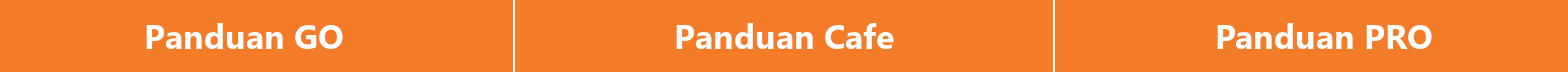
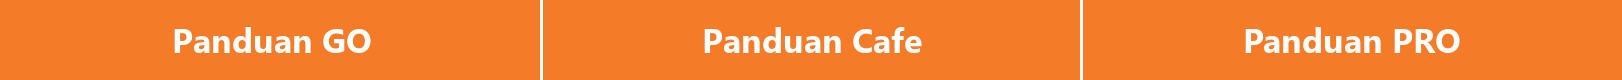
Halaman unduh: pita oranye penuh menempel di atas tabel

diff --git a/README.md b/README.md
@@ -6,10 +6,8 @@
 ## Pilih edisi / Choose your edition
 
 <div align="center">
+<picture><source media="(max-width: 700px)" srcset="hdr-edisi-m.png"><img src="hdr-edisi.png" width="811" align="top" alt="Oru POS GO | Oru POS Cafe | Oru POS PRO"></picture>
 <table>
-<tr>
-<th colspan="3" align="center"><img src="hdr-edisi.png" width="784" alt="Oru POS GO | Oru POS Cafe | Oru POS PRO"></th>
-</tr>
 <tr>
 <td width="270" align="center" valign="top"><br><b>Gerobak &amp; warung</b><br><br>Satu HP, tanpa meja<br>Pilih menu, tekan Bayar<br><br></td>
 <td width="270" align="center" valign="top"><br><b>Mini cafe</b><br><br>2-3 HP/tablet satu WiFi<br>Meja, dapur, dan kasir<br><br></td>
@@ -62,10 +60,8 @@ Pembaruan aplikasi muncul otomatis di dalam aplikasi (Pengaturan &rarr; Sistem &
 Langkah demi langkah, lengkap dengan gambar, untuk pemilik, kasir, pelayan, dan dapur. *Step-by-step guides with screenshots (Indonesian).*
 
 <div align="center">
+<picture><source media="(max-width: 700px)" srcset="hdr-panduan-m.png"><img src="hdr-panduan.png" width="811" align="top" alt="Panduan GO | Panduan Cafe | Panduan PRO"></picture>
 <table>
-<tr>
-<th colspan="3" align="center"><img src="hdr-panduan.png" width="784" alt="Panduan GO | Panduan Cafe | Panduan PRO"></th>
-</tr>
 <tr>
 <td width="270" align="center"><br><a href="https://raw.githubusercontent.com/r0corp/oru-go-releases/main/manual/Panduan-Oru-POS-GO.pdf"><img src="btn-pdf-go.png" width="220" alt="Buka PDF GO"></a><br><sub>gerobak &amp; warung</sub><br><br></td>
 <td width="270" align="center"><br><a href="https://raw.githubusercontent.com/r0corp/oru-go-releases/main/manual/Panduan-Oru-POS-Cafe.pdf"><img src="btn-pdf-cafe.png" width="220" alt="Buka PDF Cafe"></a><br><sub>mini cafe: meja, dapur, kasir</sub><br><br></td>
